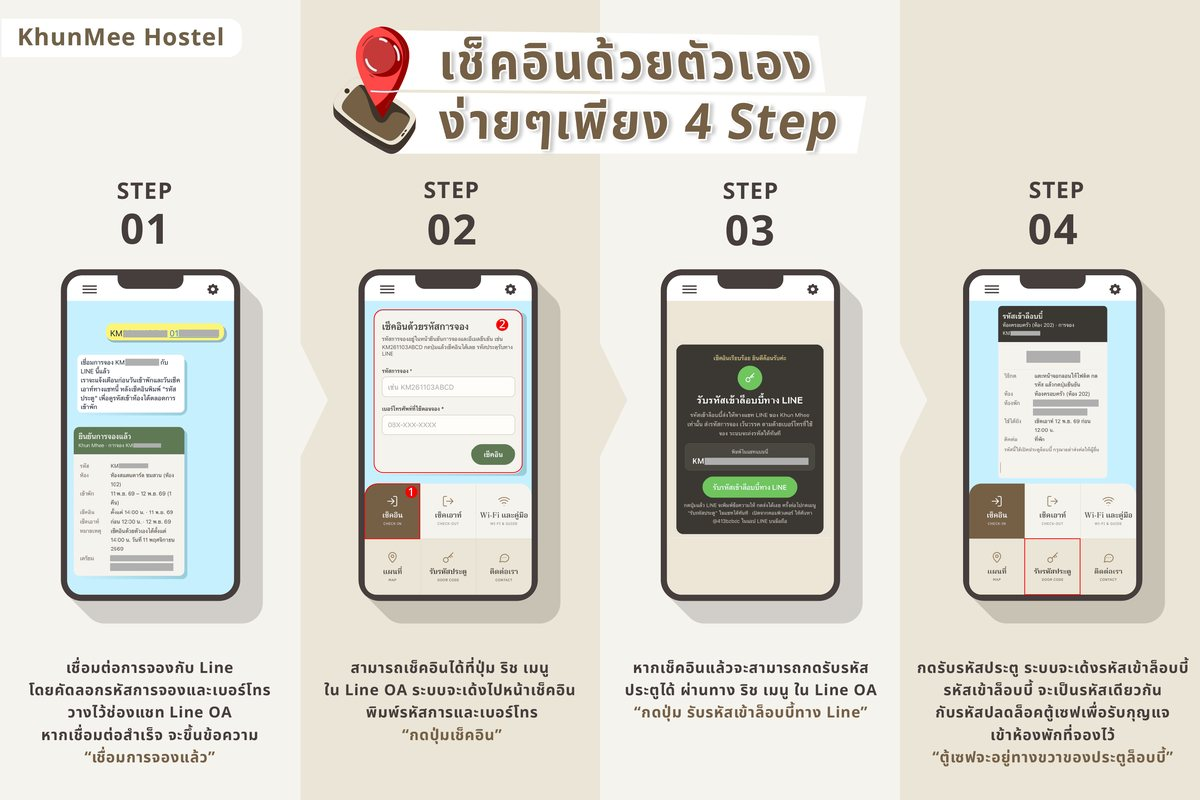
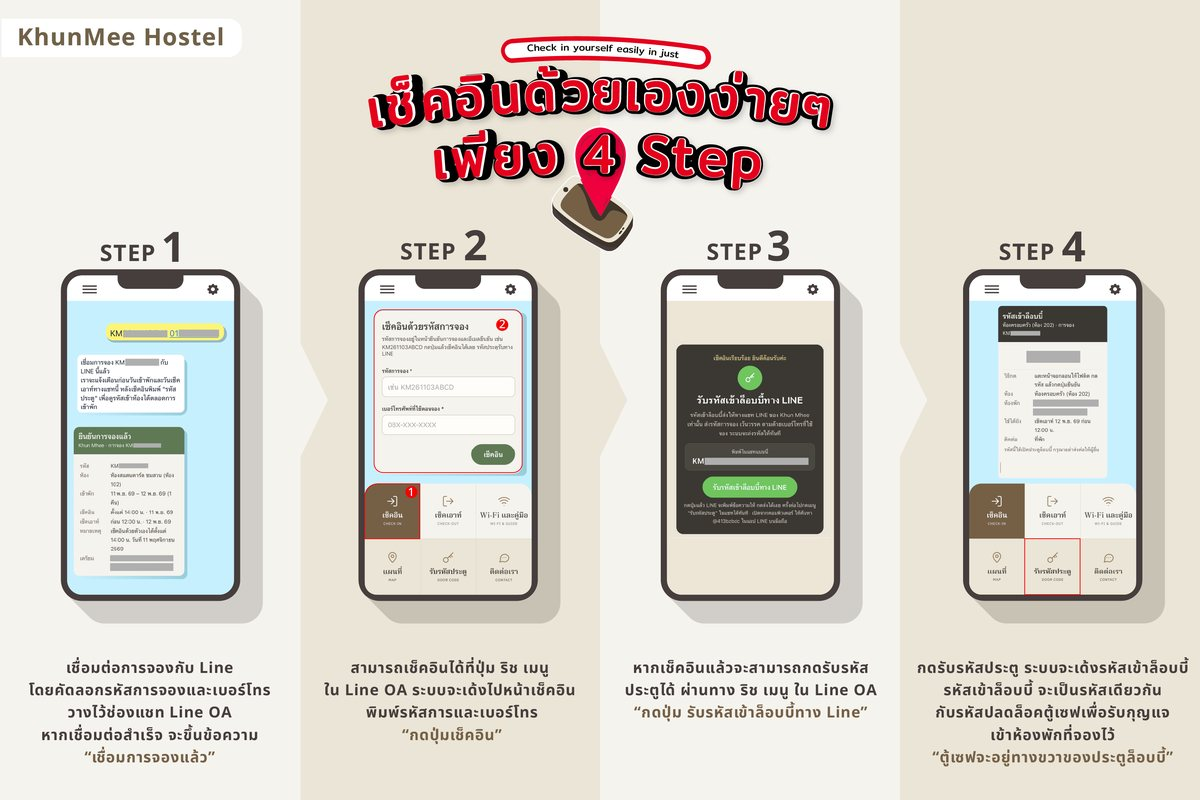
Booking confirmed: update self check-in guide image
Claude-Session: https://claude.ai/code/session_01LzdvM3tGHW7Bwv9Dj3XNfK

Changed region(s): [[0.2775, 0.0312, 0.7092, 0.3438], [0.8325, 0.2188, 0.925, 0.3438], [0.0925, 0.2188, 0.1542, 0.3438]]

diff --git a/booking.html b/booking.html
@@ -391,8 +391,8 @@ Khun Mhee</a>
 <section aria-labelledby="h-howto" class="card" style="background: #F6F3EE; border-radius: 18px; padding: 24px; box-sizing: border-box; display: flex; flex-direction: column; gap: 12px">
 <h2 id="h-howto" style="margin: 0; font-size: 21px; font-weight: 600">วิธีเช็คอินด้วยตัวเอง</h2>
 <p style="margin: 0; font-size: 15px; line-height: 1.6; color: #5E554C">ง่าย ๆ 4 ขั้นตอน ผ่าน LINE OA ของที่พัก</p>
-<a href="images/checkin-steps-2400.jpg" target="_blank" rel="noopener" aria-label="เปิดภาพวิธีเช็คอินขนาดใหญ่ (แท็บใหม่)" style="display: block; border-radius: 14px; overflow: hidden; border: 1px solid #E2D8C6; background: #FFFFFF">
-<img src="images/checkin-steps-1200.jpg" srcset="images/checkin-steps-1200.jpg 1200w, images/checkin-steps-2400.jpg 2400w" sizes="(max-width: 720px) 100vw, 720px" width="1200" height="800" loading="lazy" alt="วิธีเช็คอินด้วยตัวเอง 4 ขั้นตอน: 1) เชื่อมการจองกับ LINE โดยส่งรหัสการจองและเบอร์โทรในแชท LINE OA จะขึ้นข้อความเชื่อมการจองแล้ว 2) กดปุ่มเช็คอินในริชเมนู LINE OA กรอกรหัสการจองและเบอร์โทร แล้วกดเช็คอิน 3) หลังเช็คอินกดปุ่มรับรหัสเข้าล็อบบี้ทาง LINE 4) กดรับรหัสประตูในริชเมนู ระบบจะส่งรหัสเข้าล็อบบี้ ซึ่งเป็นรหัสเดียวกับตู้เซฟรับกุญแจห้องพัก ตู้เซฟอยู่ทางขวาของประตูล็อบบี้" style="display: block; width: 100%; height: auto">
+<a href="images/checkin-steps-2400.jpg?v=2" target="_blank" rel="noopener" aria-label="เปิดภาพวิธีเช็คอินขนาดใหญ่ (แท็บใหม่)" style="display: block; border-radius: 14px; overflow: hidden; border: 1px solid #E2D8C6; background: #FFFFFF">
+<img src="images/checkin-steps-1200.jpg?v=2" srcset="images/checkin-steps-1200.jpg?v=2 1200w, images/checkin-steps-2400.jpg?v=2 2400w" sizes="(max-width: 720px) 100vw, 720px" width="1200" height="800" loading="lazy" alt="วิธีเช็คอินด้วยตัวเอง 4 ขั้นตอน: 1) เชื่อมการจองกับ LINE โดยส่งรหัสการจองและเบอร์โทรในแชท LINE OA จะขึ้นข้อความเชื่อมการจองแล้ว 2) กดปุ่มเช็คอินในริชเมนู LINE OA กรอกรหัสการจองและเบอร์โทร แล้วกดเช็คอิน 3) หลังเช็คอินกดปุ่มรับรหัสเข้าล็อบบี้ทาง LINE 4) กดรับรหัสประตูในริชเมนู ระบบจะส่งรหัสเข้าล็อบบี้ ซึ่งเป็นรหัสเดียวกับตู้เซฟรับกุญแจห้องพัก ตู้เซฟอยู่ทางขวาของประตูล็อบบี้" style="display: block; width: 100%; height: auto">
 </a>
 <p style="margin: 0; font-size: 13px; color: #7A6E63">แตะที่ภาพเพื่อดูขนาดใหญ่</p>
 </section>
